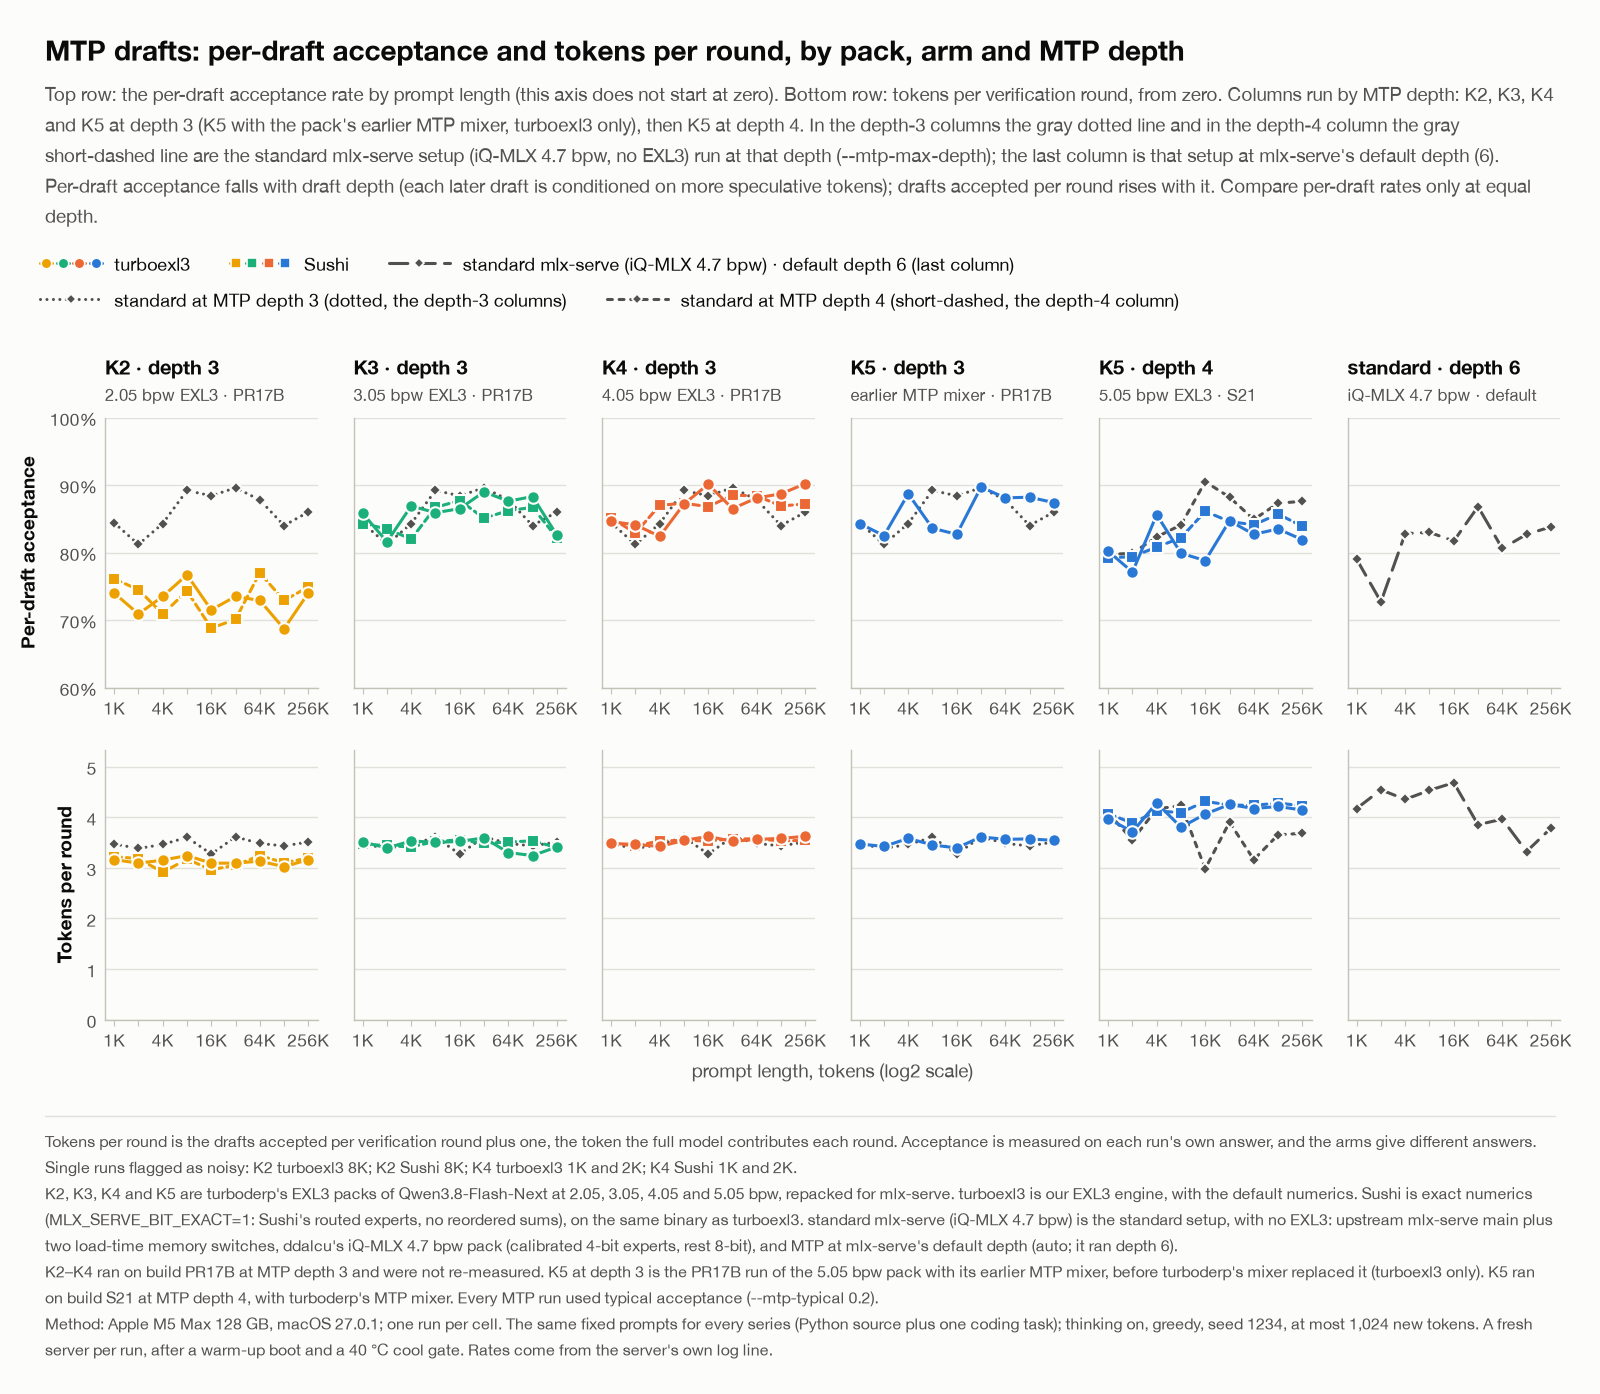
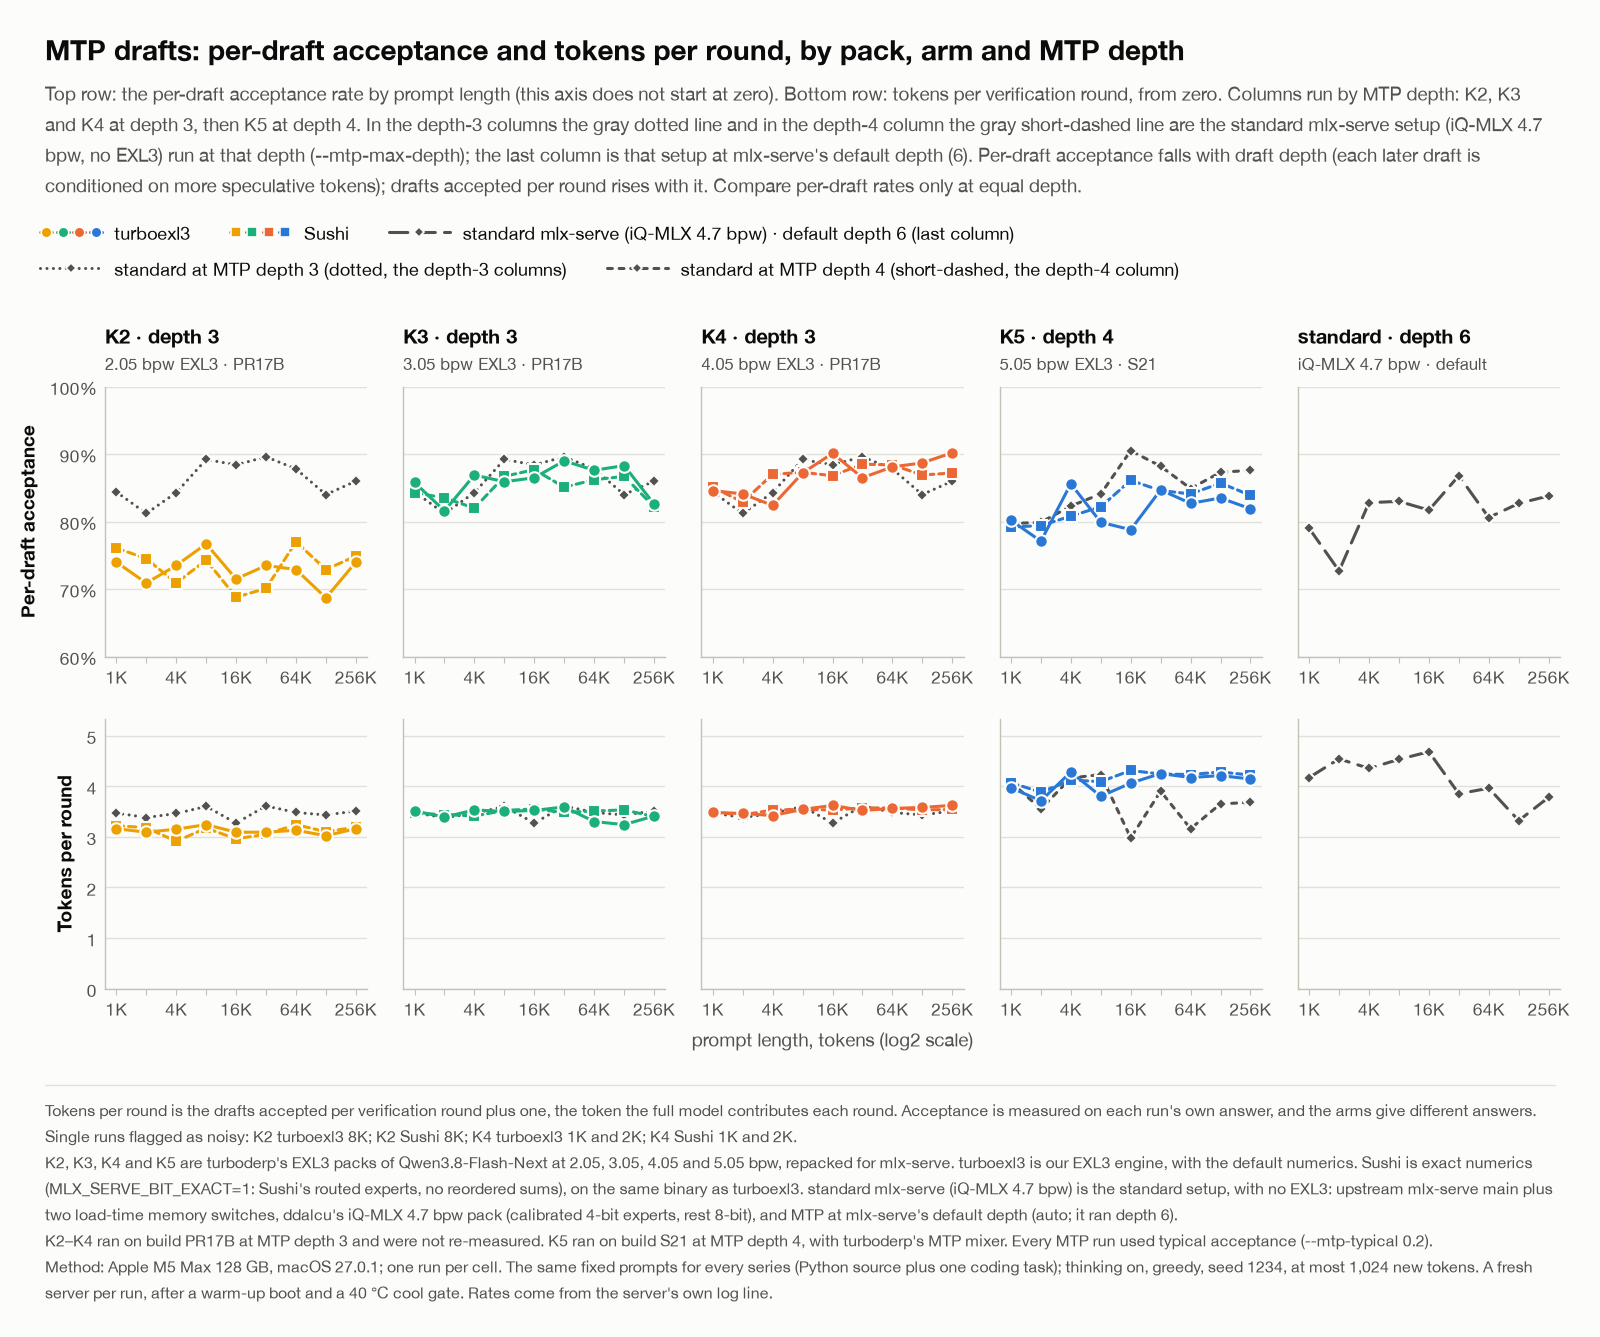
docs: K5 compared through its published pack only
K5's depth-3 run used the pack's earlier MTP mixer, not the published 5.05 pack, so it no longer stands in for K5
anywhere. The equal-depth comparison for K5 is its S21 run with turboderp's mixer against the standard setup at
depth 4, and the MTP acceptance chart drops the earlier-mixer series.

diff --git a/docs/RESULTS.md b/docs/RESULTS.md
@@ -153,14 +153,11 @@ Decode, tok/s (MTP on):
 
 At equal depth, the turboexl3 arms against the standard setup:
 
-- **Depth 3:** K2 is level, from 2.2% slower to 4.4% faster. K3 is 4.0 to 12.6% faster, and K4 5.2 to 17.1% faster. K5's
-  depth-3 run (build PR17B, the pack's earlier MTP mixer: 129.5, 124.6, 129.5, 123.6, 119.6, 119.4, 110.8, 105.8 and
-  95.9 tok/s from 1K to 256K) is level, from 0.7% slower to 7.1% faster.
-- **Depth 4:** K5 on S21 is 0.5 to 37.8% faster than the standard setup, but depth 4 is a slower setting for the standard
-  setup than depth 3 at every length.
+- **Depth 3:** K2 is level, from 2.2% slower to 4.4% faster. K3 is 4.0 to 12.6% faster, and K4 5.2 to 17.1% faster.
+- **Depth 4:** K5 is 0.5 to 37.8% faster than the standard setup.
 
-The Sushi arms, at depth 3: K2 is 10.6% slower to 1.0% faster, K3 2.1% slower to 7.7% faster, K4 3.6 to 9.6% slower, and
-K5's depth-3 run 6.8% slower to 0.3% faster. These ranges leave out the runs marked `†`.
+The Sushi arms at the same depth: K2 is 10.6% slower to 1.0% faster, K3 2.1% slower to 7.7% faster and K4 3.6 to 9.6%
+slower at depth 3, and K5 2.5% slower to 29.1% faster at depth 4. These ranges leave out the runs marked `†`.
 
 ## Coding evals
 
